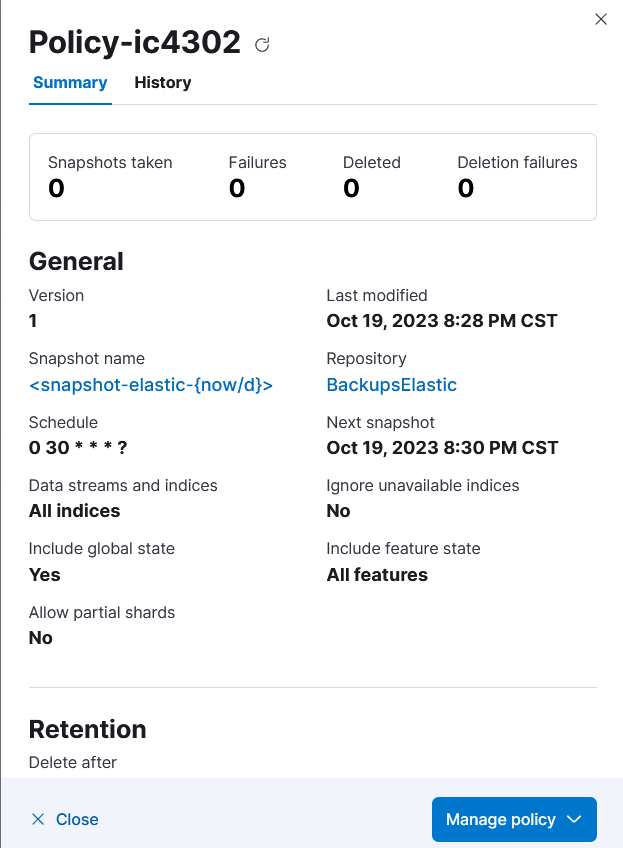
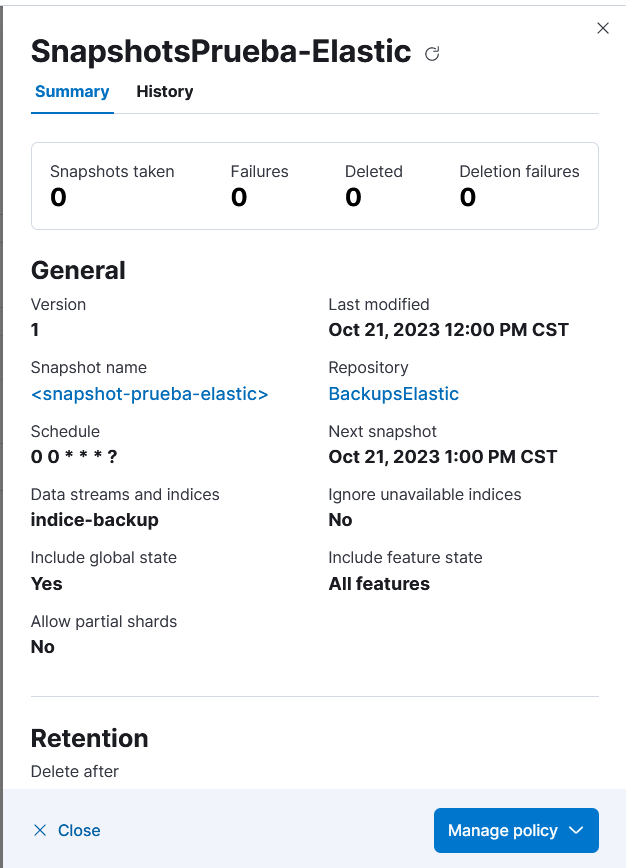
Restore explicado

diff --git a/TC2/Documentacion/documentacion.md b/TC2/Documentacion/documentacion.md
@@ -271,35 +271,113 @@ Si se logro crear correctamente el snapshot, va a aparecer en esta sección. La 
 #### Automático
 El segundo método para hacer backups, es estableciendolos automáticamente a través de un policy, usando uno de estos, se pueden establecer la creación de backups cada cierto tiempo automáticamente, junto con un tiempo para el cúal cuando se pase sean eliminados automáticamente también.
 
-Para esto en la misma sección de Snapshots and Restore dentro de la plataforma de Kibana se abren l
+Para esto en la misma sección de Snapshots and Restore dentro de la Interfaz de Kibana se accede a la sección de Snapshot and Restore y una vez ahi se entra a Policies/Create a Policy:
 
 ![Alt text](imgs/BackupElastic/restorePolicy.png)
 
-Paso 1 create policy
+Si se ingresa a esta Interfaz se le presenta al usuario con lo siguiente:
+
 
 ![Alt text](imgs/BackupElastic/creacionPolicy.png)
 
+Aqui se solicitan los siguientes datos del usuario:
+
+* **Policy Name:** Aqui se le pone un nombre a la política, este valor es a gusto del usuario
+* **Snapshot Name:** En esta sección se le debe de poner un nombre a los snapshots que se van a almacenar, la plataforma automáticamente les agrega un identificador único al final
+* **Repository:** Aqui se debe poner el nombre del repositorio previamente creado, si no se ingresa un repositorio válido no se creará la política
+* **Schedule:** En esta parte se debe definir cada cuanto tiempo se quieren hacer backups de la plataforma, se puede definir si se quiere cada ciertas horas, dias, mes, etc.
+
+Una vez se han ingresado los datos, se pasa a la siguiente página:
+
 ![Alt text](imgs/BackupElastic/dejarigual.png)
+
+En esta sección no es necesario cambiar nada, es cuestión de dejarlo con sus configuraciones por default, esto va a guardar todos los indices de la base automáticamente, sin embargo, si se quiere guardar solo un índice
+
+![Alt text](imgs/BackupElastic/backupsUnsoloIndex.png)
+
+Se puede apagar esta configuración, aqui se pueden seleccionar los indices que si se quieran guardar, si tienen un check a la izquierda van a ser parte del snapshot, sino no se incluyen.
+
+Se pasa a la siguiente página:
 
 ![Alt text](imgs/BackupElastic/eliminardespuesCiertoTIempo.png)
 
+Esta es la sección final para crear un policy, aquí se puede definir **Si se quieren borrar los backups después de cierto tiempo, y si se quieren definir un mínimo a mantener**. A través de esta sección se puede configurar los puntos extra de la tarea, indicando la cantidad de días tras los que se quiere borrar los backups.
 
-Una vez creado el policy
+Finalmente, le damos next y se va a crear el policy en esta sección:
 
 ![Alt text](imgs/BackupElastic/CreatePolicy.png)
 
-
-Despues de crear el policy y repositorio si se crea un backup saldra lo siguiente
+Confirmamos que los datos están correctos y se le da crear,como resultado, si se hizo bien debe de aparecer lo siguiente:
 
 ![Alt text](imgs/BackupElastic/ResultadoPolicy.png)
 
+En este ejemplo solo se esta haciendo backup del index llamado: `indice-backup`
+
+Despues de crear el policy y repositorio se van a crear backups automáticamente cada cierto tiempo dependiendo de lo definido al crear el policy.
+
 ![Alt text](imgs/BackupElastic/ExisteSnapshot.png)
-
-Al revisar el repo tambien se podra observar que hay un snapshot disponible
-
-![Alt text](imgs/BackupElastic/HayunSnapshot.png)
-
 
 Verificar si se subieron al AWS Bucket los backups
 ![Alt text](imgs/BackupElastic/Ev1Bups.png)
 
+#### Restore
+
+Para probar la restauración de datos usando Kibana, se deben haber hecho los pasos anteriores y al menos se debe tener:
+
+* Un indice con datos
+* Un Snapshot del Indice
+
+Una vez se tienen esto, la forma más sencilla de probar es desde la sección DEV TOOLS de la interfaz de kibana, borrar el indice y tratar de restaurar sus datos usando el snapshot.
+
+Si hacemos un GET del indice queda claro que si existe y sus datos son los siguientes:
+
+![Alt text](imgs/BackupElastic/getindexP.png)
+
+Ahora se procede a verificar que si existe un snapshot con ese index:
+
+![Alt text](imgs/BackupElastic/RevisarSiexisteBackup.png)
+
+Para esto se uso el comando: **`GET /_snapshot/BackupsElastic/_all`**
+
+Una vez verificados ambos, se va a borrar el índice de la base de datos elasticSearch:
+![Alt text](imgs/BackupElastic/deleteIndex.png)
+
+Se utiliza el comando: **`DELETE /indice-backup`**
+
+Revisando si todavía existen los datos usando GET, se obtiene:
+
+![Alt text](imgs/BackupElastic/GetDEL.png)
+
+##### Restauración
+
+Una vez eliminado, hay dos maneras de restaurar el índice dentro de Kibana:
+
+###### Comandos
+La primera opción para restaurar el índice o la base es utilizando comandos y el nombre del snapshot que se quiere restaurar, el comando sería similar a esto:
+
+
+
+**POST /_snapshot/[Nombre Repo]/[Nombre Snapshot]/_restore
+{
+  "indices": "[Indice a restaurar]",
+  "include_global_state": false
+}**
+
+En el caso de nuestro ejemplo se ejecuta el siguiente comando:
+
+**POST /_snapshot/BackupsElastic/indice-backup_20231020/_restore
+{
+  "indices": "indice-backup",
+  "include_global_state": false
+}**
+
+![Alt text](imgs/BackupElastic/restore1.png)
+
+Ahora si probamos el GET, deberían de volver a aparecer los datos del Index:
+
+![Alt text](imgs/BackupElastic/Restore2.png)
+
+
+###### Usando Interfaz Snapshot and Restore
+
+La segunda opción para restaurar un índice eliminado es a través de la Sección Snapshot and Restore dentro de la Interfaz de Kibana en la sección de Stack Management. Una vez aqui buscamos lo siguiente:
